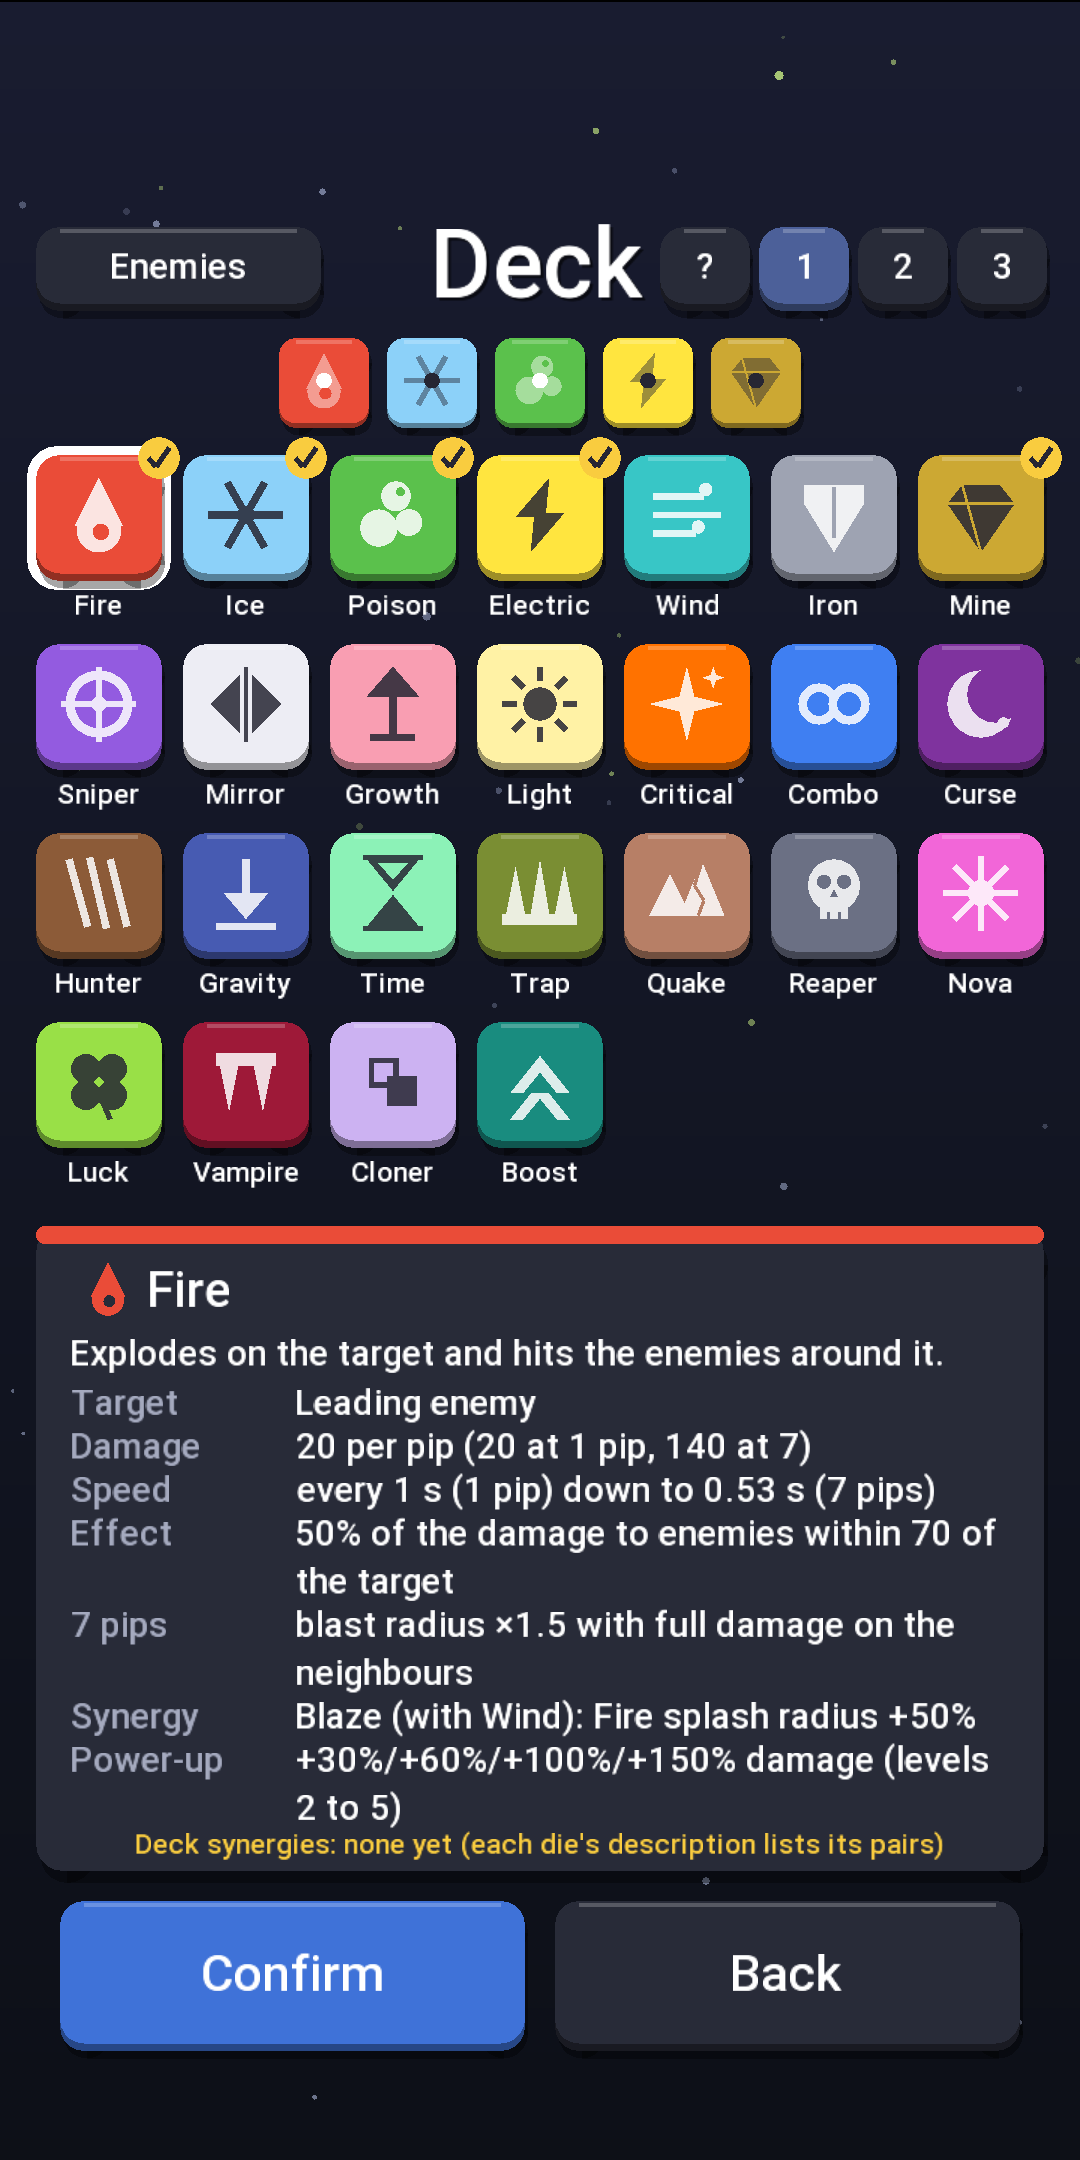
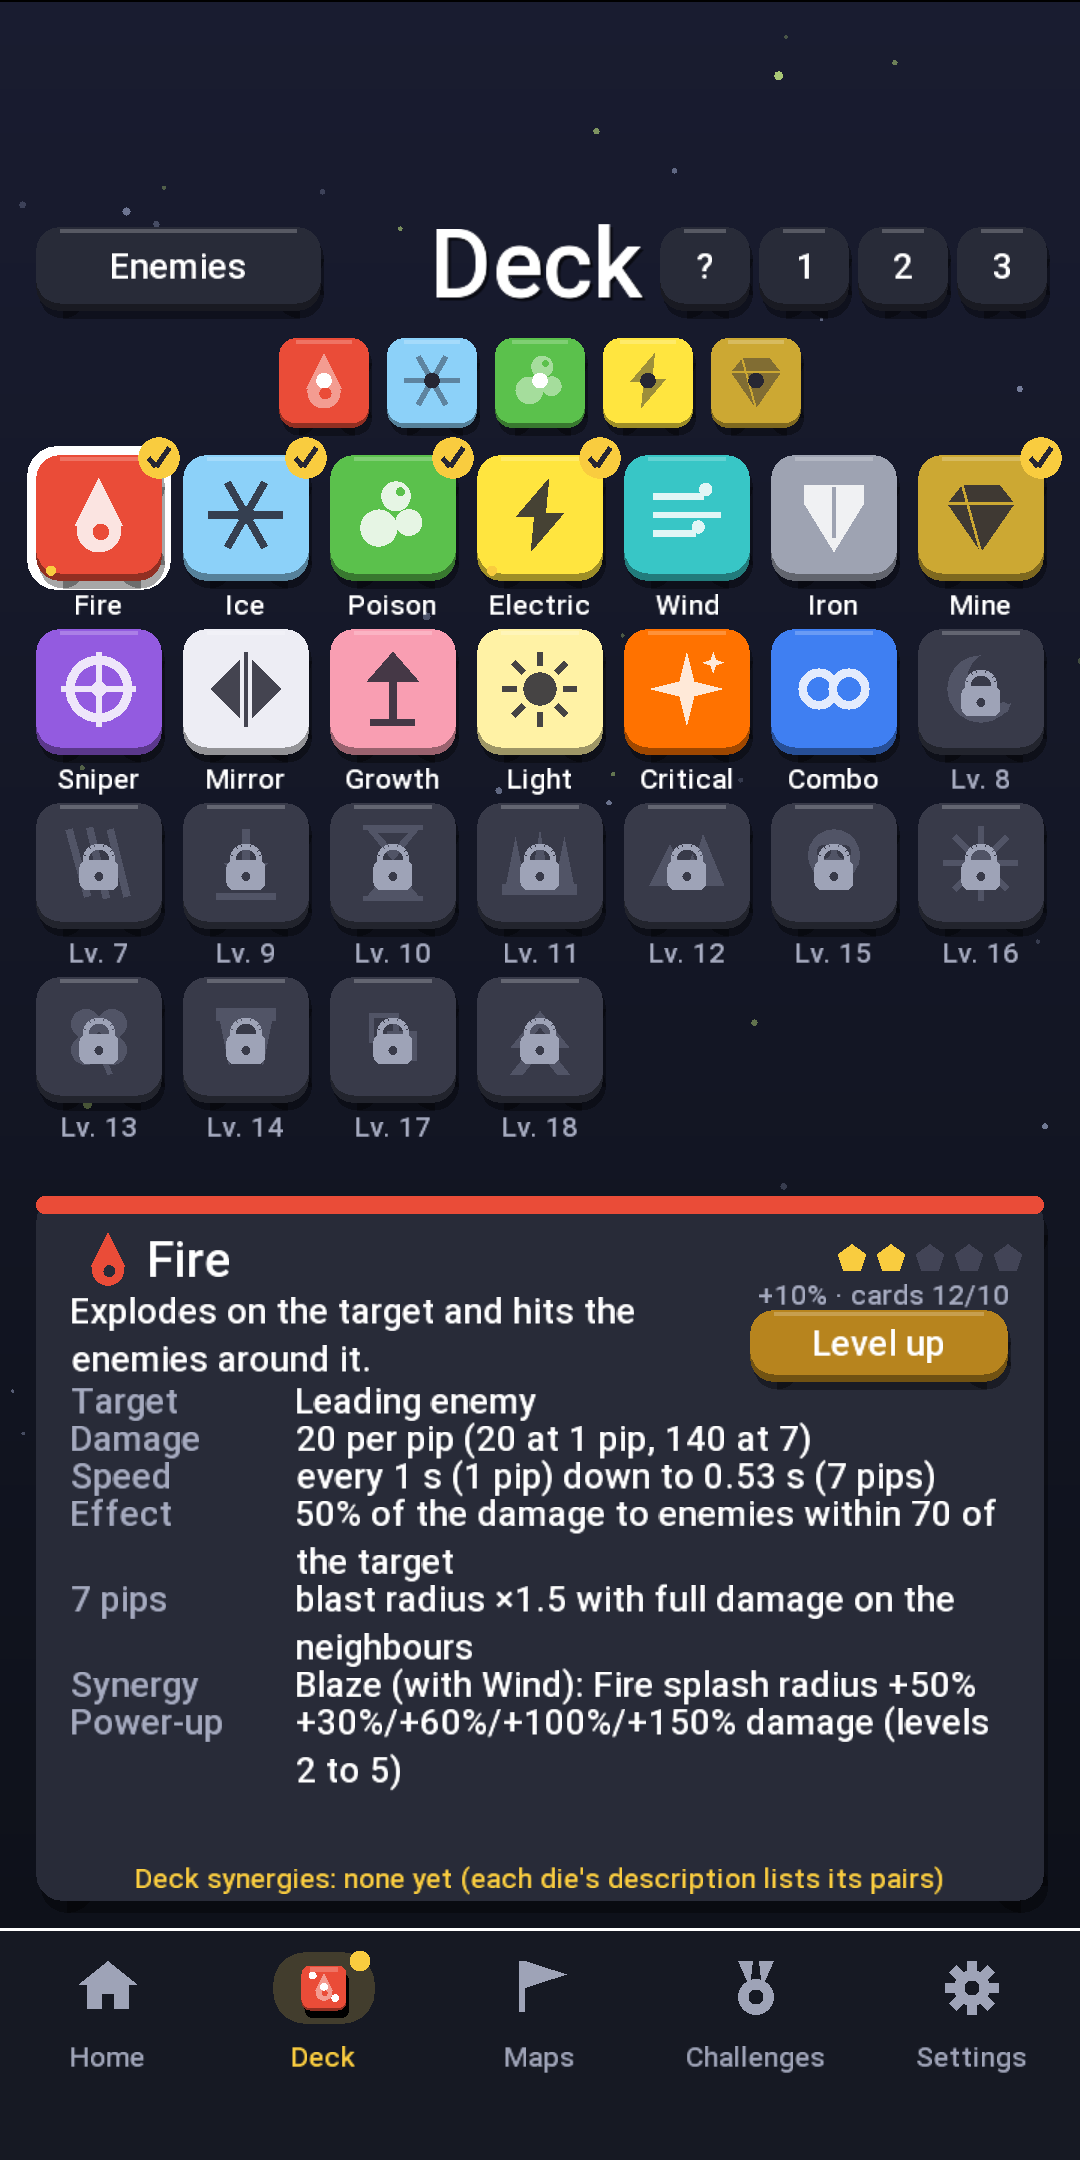
chore: store screenshots redone with the bottom bar; wrap long lines on three screens
Fourteen captures (pt and en): home with the day's missions, match, deck, enemies,
maps (replaces missions), challenges and game over, from a level-6 showcase save.
While capturing: the weekly challenge's mutator line and the game-over achievements
line wrap instead of running off the panel, and the deck panel's rows sit a little
tighter so the Portuguese texts fit above the synergy line.

Changed region(s): [[0.0306, 0.2792, 0.9778, 0.9616], [0.7028, 0.0931, 0.7944, 0.1551]]

diff --git a/core/src/main/kotlin/com/iagothz/mergetd/ui/DeckScreen.kt b/core/src/main/kotlin/com/iagothz/mergetd/ui/DeckScreen.kt
@@ -24,9 +24,9 @@ class DeckScreen(game: MergeTdGame) : BaseScreen(game) {
     private val selected = game.save.playableDeck().toMutableList()
     private var shown = selected.firstOrNull() ?: DieType.FIRE
     private val tiles = DieType.entries.mapIndexed { i, t ->
-        t to Rectangle(24f + (i % COLS) * 98f, 1010f - (i / COLS) * 118f, 84f, 84f)
+        t to Rectangle(24f + (i % COLS) * 98f, 1010f - (i / COLS) * 116f, 84f, 84f)
     }
-    private val panel = Rectangle(24f, 130f, 672f, 464f)
+    private val panel = Rectangle(24f, 130f, 672f, 470f)
     private val enemies = Button(Rectangle(24f, 1190f, 190f, 56f), S["Inimigos"], color = Skin.PANEL)
     /** Three preset slots (tap loads, hold saves) and a random deck button. */
     private val presets = List(PRESETS) { Button(Rectangle(506f + it * 66f, 1190f, 60f, 56f), "${it + 1}", color = Skin.PANEL) }
@@ -151,7 +151,7 @@ class DeckScreen(game: MergeTdGame) : BaseScreen(game) {
         val pairs = Synergy.forDeck(selected)
         game.tinyFont.color = Skin.GOLD
         val line = if (pairs.isEmpty()) S["Sinergias do deck: nenhuma ainda (veja os pares na descrição de cada dado)"] else S.f("Sinergias do deck: %s", pairs.joinToString(", ") { S[it.title] })
-        game.batch.textCentered(game.tinyFont, line, 360f, panel.y + 18f)
+        game.batch.textCentered(game.tinyFont, line, 360f, panel.y + 15f)
         game.tinyFont.color = Color.WHITE
         enemies.drawText(game.batch, game.smallFont)
         random.drawText(game.batch, game.smallFont)
@@ -182,17 +182,17 @@ class DeckScreen(game: MergeTdGame) : BaseScreen(game) {
             game.batch.textRight(game.tinyFont, levelText(), panel.x + panel.width - 24f, y - 36f)
             game.tinyFont.color = Color.WHITE
         }
-        y -= 42f
+        y -= 38f
         // The level-up button sits on the right of the summary, which wraps before it.
         val summaryWidth = panel.width - 48f - (if (levelUpShown()) 196f else 0f)
-        y -= maxOf(game.smallFont.draw(game.batch, info.summary, left, y, summaryWidth, Align.left, true).height, if (levelUpShown()) 52f else 0f) + 12f
+        y -= maxOf(game.smallFont.draw(game.batch, info.summary, left, y, summaryWidth, Align.left, true).height, if (levelUpShown()) 52f else 0f) + 8f
 
         val locked = if (isOpen(shown)) emptyList() else listOf(S["Bloqueado"] to S.f("Abre no nível de conta %d", DiceUnlocks.unlockLevel(shown)))
         for ((key, value) in locked + info.rows) {
             game.smallFont.color = KEY_COLOR
             game.smallFont.draw(game.batch, key, left, y)
             game.smallFont.color = Color.WHITE
-            y -= game.smallFont.draw(game.batch, value, left + keyWidth, y, valueWidth, Align.left, true).height + 10f
+            y -= game.smallFont.draw(game.batch, value, left + keyWidth, y, valueWidth, Align.left, true).height + 8f
         }
     }
 

diff --git a/core/src/main/kotlin/com/iagothz/mergetd/ui/ChallengeScreen.kt b/core/src/main/kotlin/com/iagothz/mergetd/ui/ChallengeScreen.kt
@@ -3,6 +3,7 @@ package com.iagothz.mergetd.ui
 import com.badlogic.gdx.graphics.Color
 import com.badlogic.gdx.graphics.glutils.ShapeRenderer
 import com.badlogic.gdx.math.Rectangle
+import com.badlogic.gdx.utils.Align
 import com.iagothz.mergetd.logic.DailyChallenge
 import com.iagothz.mergetd.logic.Mutator
 import com.iagothz.mergetd.logic.Vec2
@@ -34,7 +35,7 @@ class ChallengeScreen(game: MergeTdGame) : BaseScreen(game) {
             shapes.roundedRect(card.x, card.y + card.height - 10f, card.width, 10f, 5f)
         }
         for ((i, t) in daily.deck.withIndex()) shapes.die(t, 1, dailyCard.x + 60f + i * 56f, dailyCard.y + 172f, 44f)
-        for ((i, t) in weekly.deck.withIndex()) shapes.die(t, 1, weeklyCard.x + 60f + i * 56f, weeklyCard.y + 192f, 44f)
+        for ((i, t) in weekly.deck.withIndex()) shapes.die(t, 1, weeklyCard.x + 60f + i * 56f, weeklyCard.y + 206f, 44f)
         buttons.forEach { it.drawShape(shapes) }
         shapes.end()
 
@@ -56,7 +57,8 @@ class ChallengeScreen(game: MergeTdGame) : BaseScreen(game) {
         game.batch.textRight(game.smallFont, S.f("recorde: pontuação %d", game.save.weeklyBest(weekly.week)), weeklyCard.x + weeklyCard.width - 28f, weeklyCard.y + weeklyCard.height - 86f)
         game.tinyFont.color = Skin.GOLD
         val names = weekly.mutators.joinToString(" · ") { "${S[it.title]} (${S[it.description]})" }
-        game.batch.textLeft(game.tinyFont, S.f("Mutadores ×%s: %s", DieInfo.num(Mutator.multiplier(weekly.mutators)), names), weeklyCard.x + 28f, weeklyCard.y + 136f)
+        // Wrapped: two mutators with their descriptions don't fit one line in English.
+        game.tinyFont.draw(game.batch, S.f("Mutadores ×%s: %s", DieInfo.num(Mutator.multiplier(weekly.mutators)), names), weeklyCard.x + 28f, weeklyCard.y + 162f, weeklyCard.width - 56f, Align.left, true)
         game.tinyFont.color = Color.WHITE
         buttons.forEach { it.drawText(game.batch, game.font) }
         game.batch.end()

diff --git a/core/src/main/kotlin/com/iagothz/mergetd/ui/GameOverScreen.kt b/core/src/main/kotlin/com/iagothz/mergetd/ui/GameOverScreen.kt
@@ -133,9 +133,13 @@ class GameOverScreen(
         game.smallFont.color = Skin.GOLD
         game.smallFont.draw(game.batch, Tips.forKiller(stats.killedBy), panel.x + 32f, y + 10f, panel.width - 64f, Align.left, true)
         game.smallFont.color = Color.WHITE
+        // Several achievements can land at once (an old save's first match): the line wraps and pushes the missions down.
+        var achievementsHeight = 0f
         if (unlocked.isNotEmpty()) {
             val names = unlocked.joinToString(", ") { S[it.title] }
-            game.batch.textShadowed(game.smallFont, S.f("Conquista: %s", names), 360f, panel.y - 24f, Skin.GOLD)
+            game.smallFont.color = Skin.GOLD
+            achievementsHeight = game.smallFont.draw(game.batch, S.f("Conquista: %s", names), panel.x, panel.y - 12f, panel.width, Align.center, true).height + 6f
+            game.smallFont.color = Color.WHITE
         }
         if (code != null) {
             game.tinyFont.color = KEY_COLOR
@@ -160,7 +164,7 @@ class GameOverScreen(
         if (reward != null) {
             val line = if (reward.leveledUp) S.f("Novo nível: %d!", reward.level) + "  ·  " + S.f("+%d XP", reward.xp) else S.f("+%d XP", reward.xp)
             game.batch.textShadowed(game.smallFont, line, 360f, 1130f, if (reward.leveledUp) Skin.GOLD else Color.WHITE)
-            var my = panel.y - 24f - (if (unlocked.isNotEmpty()) 30f else 0f)
+            var my = panel.y - 24f - achievementsHeight
             for (m in reward.missions) {
                 game.batch.textShadowed(game.tinyFont, S.f("Missão: %s", m.text()), 360f, my, Skin.GOLD)
                 my -= 26f

diff --git a/store/README.md b/store/README.md
@@ -3,7 +3,7 @@
 Tudo o que a ficha do Google Play pede, pronto para colar.
 
 - `feature.png`: arte de destaque 1024×500 (`python tools/make_feature.py` gera de novo).
-- `screenshots/pt/` e `screenshots/en/`: sete capturas 1080×2160 por idioma, na ordem em que devem aparecer (menu, partida, deck, inimigos, missões, desafios, fim de jogo). Geradas no emulador Pixel 8 e cortadas pelo `tools/crop_screenshots.py`. **Desatualizadas desde a barra inferior (0.6.0): refazer antes de publicar.**
+- `screenshots/pt/` e `screenshots/en/`: sete capturas 1080×2160 por idioma, na ordem em que devem aparecer (início com as missões, partida, deck, inimigos, mapas, desafios, fim de jogo). Geradas no emulador Pixel 8 (versão 0.6.0, com a barra inferior) e cortadas pelo `tools/crop_screenshots.py`.
 - Ícone: `android/res/mipmap-*` (adaptativo), gerado por `tools/make_icons.py`.
 - Política de privacidade: `PRIVACY.md` na raiz (publique o texto numa página e cole o link).
 - Pacote: `./gradlew :android:bundleRelease` → `android/build/outputs/bundle/release/android-release.aab`.
